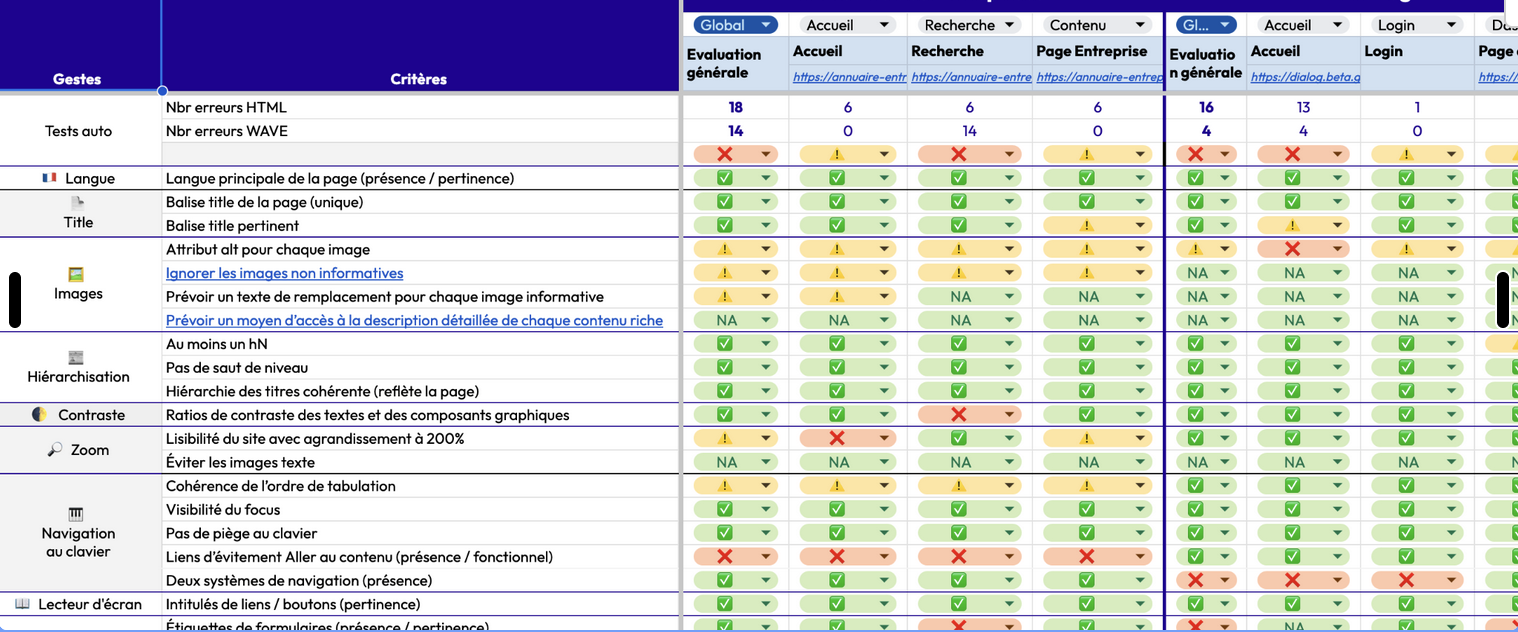
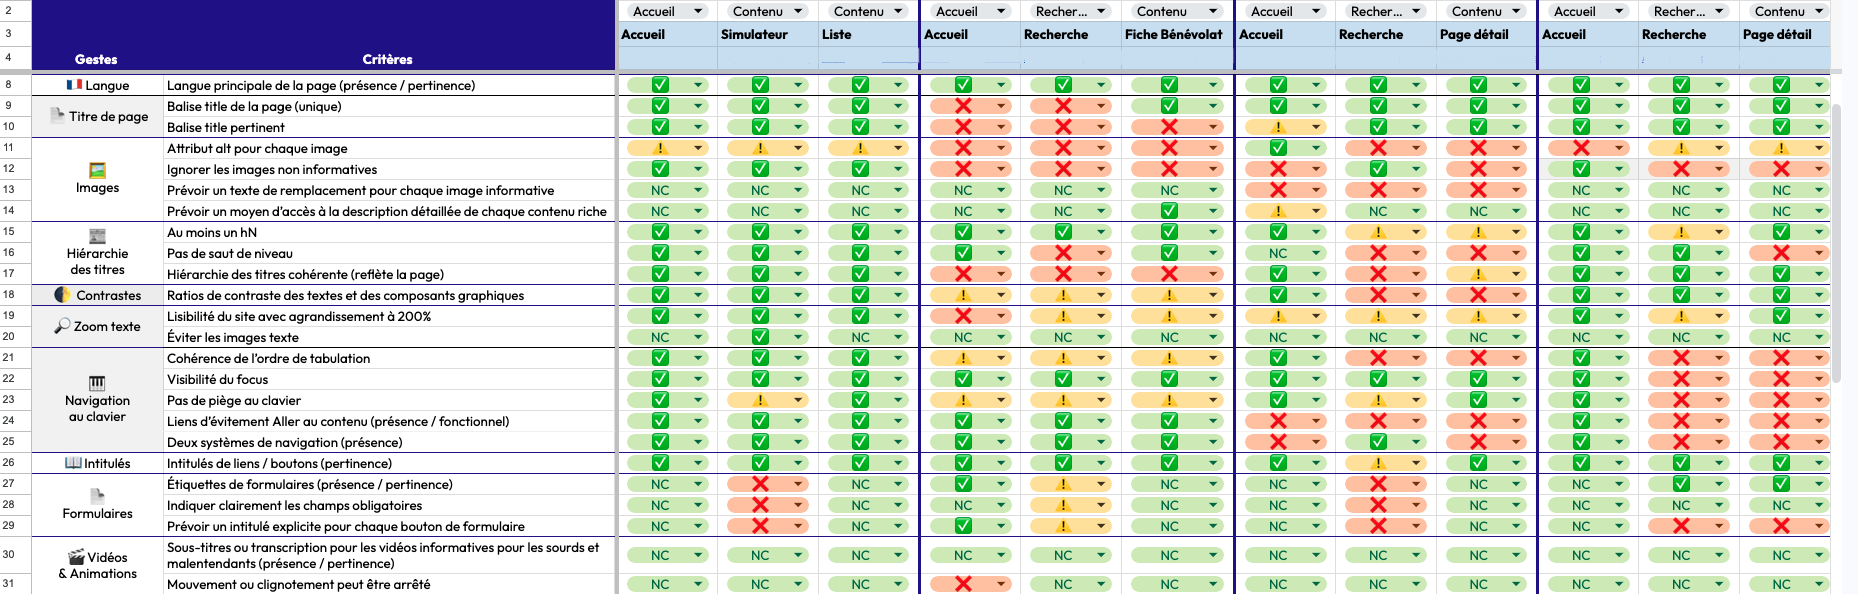
Fix page évalutation a11y (#21133)
* Fix typo

* Update image

* Fix semantics

diff --git a/_pages/accessibilite/evaluation-2024.md b/_pages/accessibilite/evaluation-2024.md
@@ -223,7 +223,7 @@ Enfin, nous avons considéré ces chiffres au regard de l'utilisation du Design 
   <h4 class="fr-callout__title">Nos apprentissages</h4>
   <ul>
     <li><strong>Certains problèmes sont très présents sur notre échantillon</strong>, notamment ceux relatifs à la navigation, aux images ou aux formulaires, trop souvent implémentées de manière problématique pour les utilisateurices.</li>
-    <li><strong>Les vidéos et animations sont toujours problématiques</strong> bien que peux utilisées.</li>
+    <li><strong>Les vidéos et animations sont toujours problématiques</strong> bien que peu utilisées.</li>
     <li><strong>L'usage du DSFR semble atténuer certaines erreurs fréquentes</strong>, tel que les contrastes de couleurs.</li>
   </ul>
 </div>
@@ -240,8 +240,8 @@ La récurrence de ces erreurs au sein de l'incubateur nous invite à prioriser d
 <div class="fr-callout fr-icon-draft-line fr-callout--blue-ecume">
   <h4 class="fr-callout__title">Nos apprentissages</h4>
   <ul>
-  	<li><b>Tous les services ont au moins un problème bloquant.</b> Certains sites peuvent en cumuler plus d’une vingtaine.</li>
-  	<li><b>Certains problèmes sont présents sur plus de la moitié de notre échantillon</b> : liens d'évitement, alternatives textuelles ou sytème de navigation manquants.</li>
+  	<li><strong>Tous les services ont au moins un problème bloquant.</strong> Certains sites peuvent en cumuler plus d’une vingtaine.</li>
+  	<li><strong>Certains problèmes sont présents sur plus de la moitié de notre échantillon</strong> : liens d'évitement, alternatives textuelles ou système de navigation manquants.</li>
   </ul>
 </div>
 
